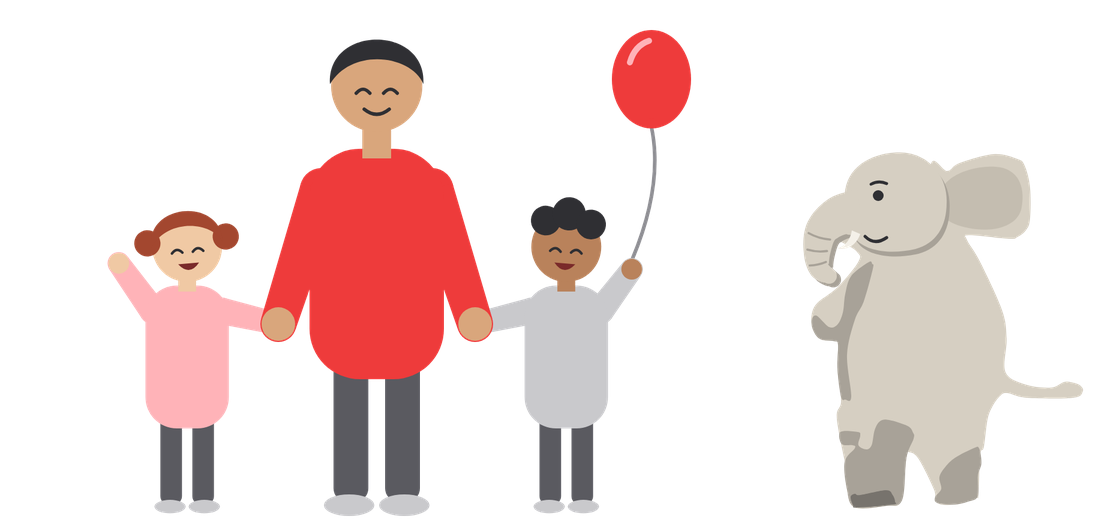
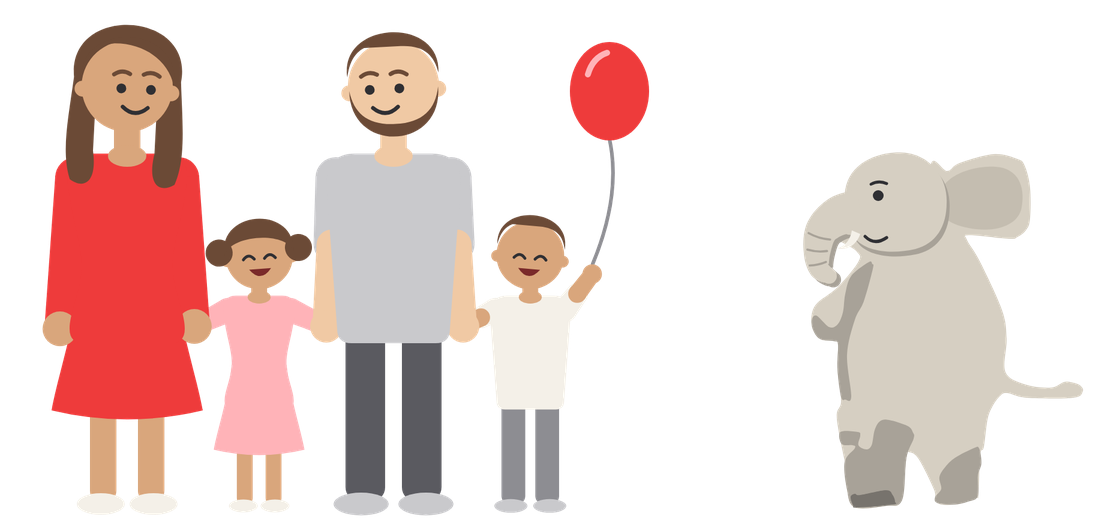
Redraw the people in the three life scenes
A mum and dad with their daughter and son, a man and a woman on the
bench, and two women and two men round the table. Also removes the
captions under the three scenes, as edited in the design.

Claude-Session: https://claude.ai/code/session_011hpFjLLA5wvsKL27P1HGAP

diff --git a/index.html b/index.html
@@ -167,16 +167,16 @@ button:focus-visible,a:focus-visible{outline:3px solid #ffb3b8;outline-offset:4p
 </div>
 <div style="align-self: stretch; margin-top: 48px; display: flex; flex-wrap: wrap; gap: 20px">
 <div style="flex: 1 1 280px; min-width: 0; background: #111113; border: 1px solid #2b2b30; border-radius: 28px; padding: 26px 22px 24px; display: flex; flex-direction: column; gap: 16px">
-<img src="assets/life-kids.webp" alt="A parent holding hands with two laughing children, one with a red balloon, while the elephant stands a little way off, smiling" style="display: block; width: 100%; height: auto">
-<h3 style="margin: 0; font-size: 22px; line-height: 1.2; font-weight: 800; letter-spacing: -0.02em">Time with your kids.</h3>
+<img src="assets/life-kids.webp" alt="A mum and dad holding hands with their laughing daughter and son, the boy holding a red balloon, while the elephant stands a little way off, smiling" style="display: block; width: 100%; height: auto">
+
 </div>
 <div style="flex: 1 1 280px; min-width: 0; background: #111113; border: 1px solid #2b2b30; border-radius: 28px; padding: 26px 22px 24px; display: flex; flex-direction: column; gap: 16px">
-<img src="assets/life-love.webp" alt="A couple sitting close together on a bench, holding hands, with a red heart above them, while the elephant stands a little way off, smiling" style="display: block; width: 100%; height: auto">
-<h3 style="margin: 0; font-size: 22px; line-height: 1.2; font-weight: 800; letter-spacing: -0.02em">An evening with the person you love.</h3>
+<img src="assets/life-love.webp" alt="A man and a woman sitting close together on a bench, his arm round her shoulders, with a red heart above them, while the elephant stands a little way off, smiling" style="display: block; width: 100%; height: auto">
+
 </div>
 <div style="flex: 1 1 280px; min-width: 0; background: #111113; border: 1px solid #2b2b30; border-radius: 28px; padding: 26px 22px 24px; display: flex; flex-direction: column; gap: 16px">
-<img src="assets/life-table.webp" alt="Four friends round a table with mugs of coffee: one at each end and two across from each other, one raising a mug, while the elephant stands a little way off, smiling" style="display: block; width: 100%; height: auto">
-<h3 style="margin: 0; font-size: 22px; line-height: 1.2; font-weight: 800; letter-spacing: -0.02em">A long table with your friends.</h3>
+<img src="assets/life-table.webp" alt="Two women and two men round a table with mugs of coffee: one at each end and two across from each other, one man raising his mug, while the elephant stands a little way off, smiling" style="display: block; width: 100%; height: auto">
+
 </div>
 </div>
 </section>
